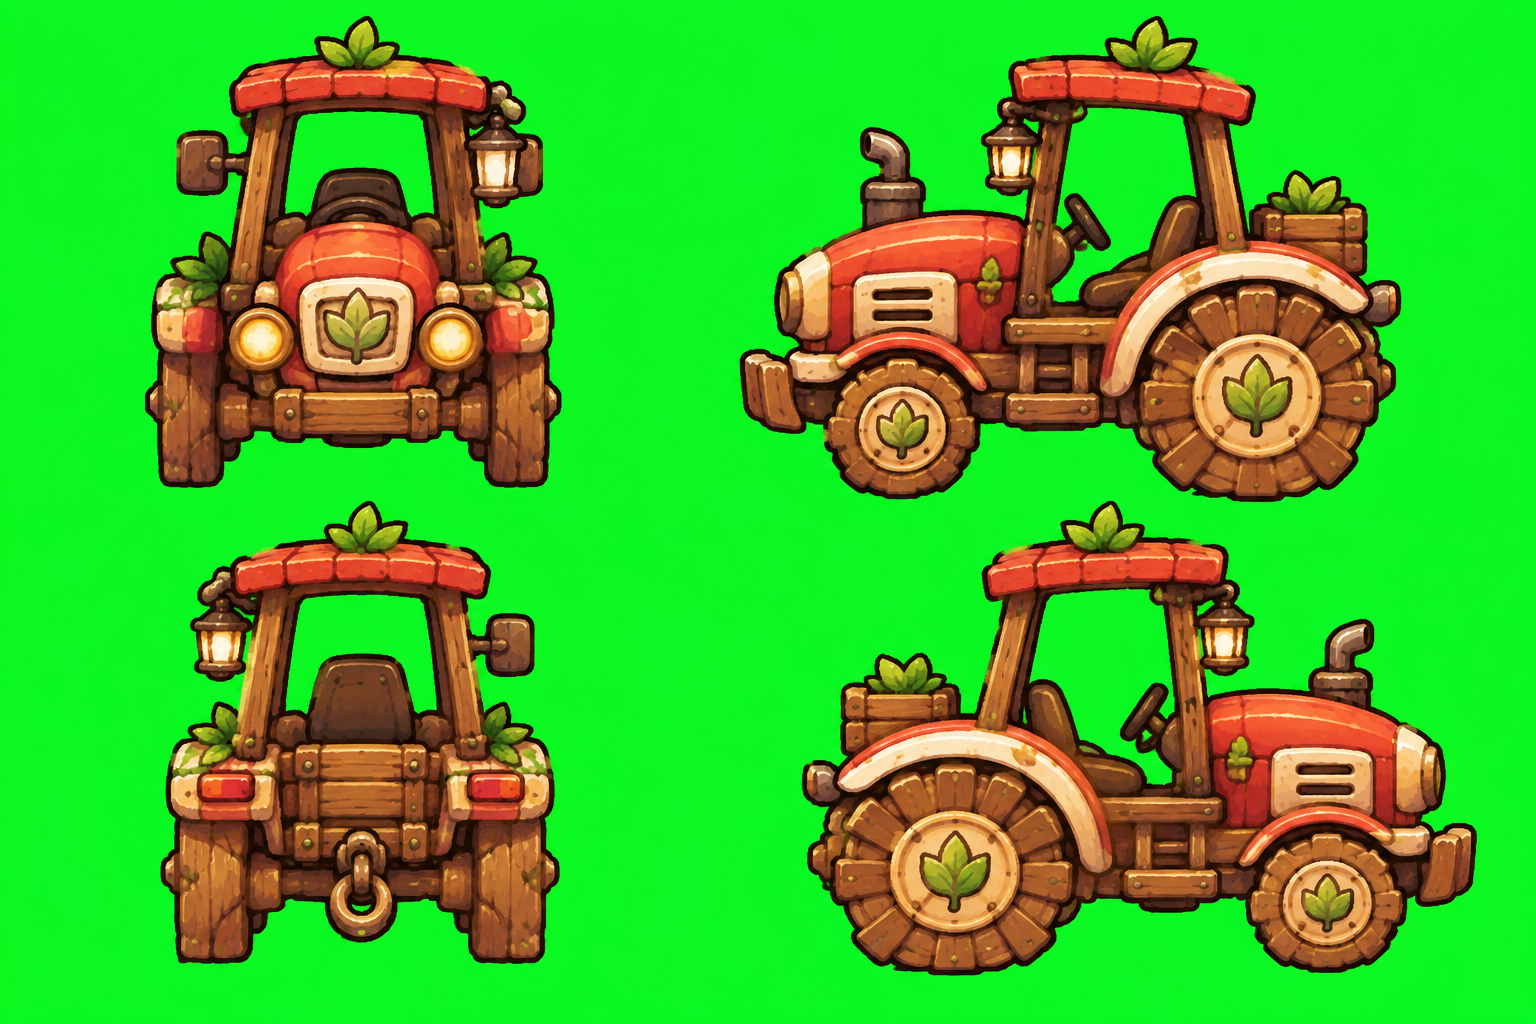
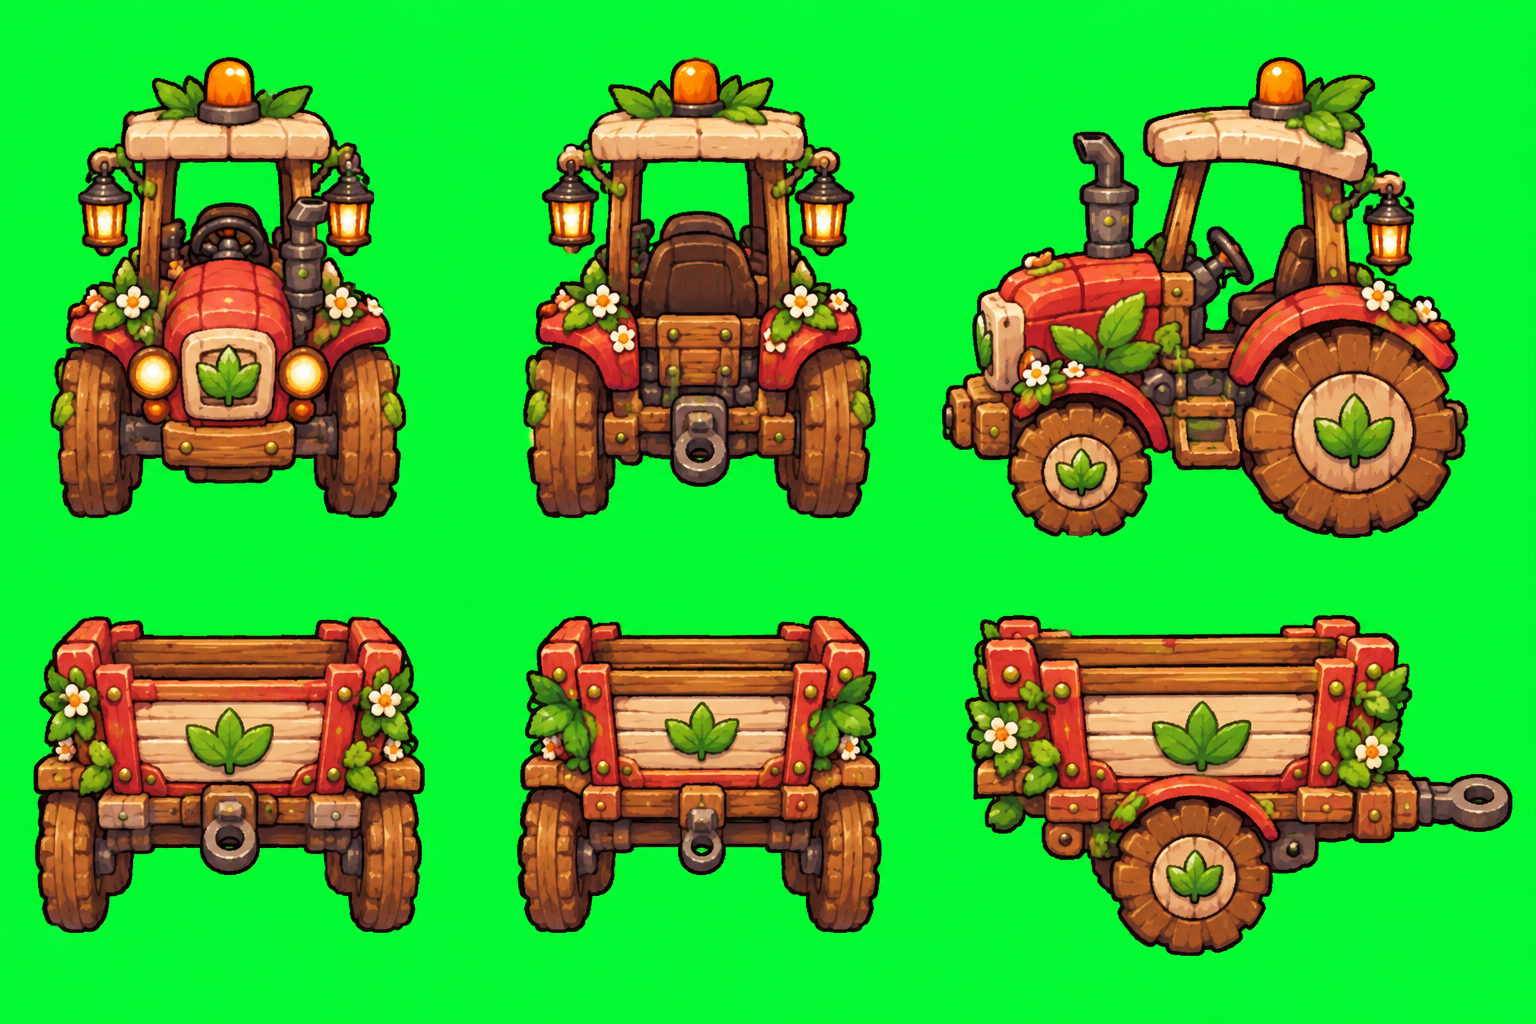
Trator e caçamba novos (teto creme, giroflex, flores) com rodas girando
- tools/import_tractor.py lê a folha nova (frente, costas e lado; o outro lado é espelhado, com o giro
  das rodas no sentido certo) para o trator e a caçamba
- Personagem desenhado por cima do banco (cabeça e ombros), embaixo do teto, nas 4 direções
- Caçamba um pouco mais perto do trator

Claude-Session: https://claude.ai/code/session_01K8smMkd41S9KsmfWVPtWCG

diff --git a/tools/import_tractor.py b/tools/import_tractor.py
@@ -1,11 +1,10 @@
 #!/usr/bin/env python3
 """
-Trator (assets/source/tractor.png, fundo verde, 4 vistas): frente (baixo), costas (cima),
-virado para a esquerda (capô à esquerda) e para a direita. Saída: assets/sprites/tractor/<direção>.png,
-todas na mesma escala, com as rodas na base da imagem.
-Também importa a caçamba (assets/source/trailer.png, mesma organização: em cima à esquerda vista com o
-engate para baixo, embaixo à esquerda para cima, à direita engate para a esquerda e para a direita)
-em assets/sprites/tractor/trailer_<direção do trator>.png.
+Trator e caçamba (assets/source/tractor.png, fundo verde). Em cima: trator de frente, de costas e de lado
+(capô para a esquerda); embaixo: caçamba vista pelo engate (trator indo para baixo), pela traseira (trator
+indo para cima) e de lado (engate para a direita = trator à direita). O outro lado é o espelho.
+Saída: assets/sprites/tractor/<direção do trator>.png e trailer_<direção do trator>.png, cada uma uma tira de
+FRAMES quadros com as rodas girando (de lado gira o aro de gomos; de frente/costas a banda "corre").
 Uso: python3 tools/import_tractor.py
 """
 import colorsys
@@ -20,14 +19,18 @@ from import_hud import key_flood  # noqa: E402
 ROOT = os.path.dirname(os.path.dirname(os.path.abspath(__file__)))
 SRC = os.path.join(ROOT, "assets", "source", "tractor.png")
 OUT = os.path.join(ROOT, "assets", "sprites", "tractor")
-VIEWS = {"down": (0, 0, 700, 500), "left": (700, 0, 1536, 512), "up": (0, 500, 700, 1024), "right": (700, 512, 1536, 1024)}
-SCALE = 0.13
+# nome -> (recorte na folha, espelhar)
+VIEWS = {"down": ((0, 30, 480, 545), False), "up": ((480, 30, 940, 545), False),
+         "left": ((930, 30, 1536, 560), False), "right": ((930, 30, 1536, 560), True)}
+TRAILER_VIEWS = {"down": ((0, 590, 470, 1010), False), "up": ((470, 590, 940, 1010), False),
+                 "right": ((940, 590, 1536, 1010), False), "left": ((940, 590, 1536, 1010), True)}
+SCALE = 0.125
 
 FRAMES = 4          # quadros das rodas girando (saída: tira horizontal com FRAMES quadros por direção)
 # centro aproximado das rodas vistas de lado (na folha original); o centro exato é achado pelo miolo creme
 # (x, y, raio aproximado do miolo, número de gomos do aro)
-TRACTOR_WHEELS = [(900, 430, 40, 10), (1257, 401, 65, 12), (955, 880, 62, 12), (1325, 900, 42, 10)]
-TRAILER_WHEELS = [(1215, 370, 52, 14), (1038, 850, 52, 14)]
+TRACTOR_WHEELS = [(1080, 472, 38, 12), (1355, 432, 60, 16)]
+TRAILER_WHEELS = [(1190, 871, 42, 12)]
 
 
 def _is_tread(p):
@@ -145,33 +148,35 @@ def import_sheet(src, views, prefix, scale=SCALE, wheels=()):
         f = im.copy()
         for wh in found:
             _spin(im, f, wh, k / FRAMES)
-        for name, box in views.items():
+        for name, (box, flip) in views.items():
             if name in ("down", "up"):
                 _roll(im, f, box, k / FRAMES)
         frames.append(f)
-    for name, box in views.items():
+    for name, (box, flip) in views.items():
         bb = im.crop(box).getbbox()
-        strip = None
-        for k, f in enumerate(frames):
+        smalls = []
+        for f in frames:
             p = f.crop(box).crop(bb)
+            if flip:
+                p = p.transpose(Image.FLIP_LEFT_RIGHT)
             small = p.resize((round(p.width * scale), round(p.height * scale)), Image.LANCZOS)
             sp = small.load()
             for y in range(small.height):
                 for x in range(small.width):
                     r, g, b, a = sp[x, y]
                     sp[x, y] = (r, g, b, 255) if a >= 110 else (0, 0, 0, 0)
-            if strip is None:
-                strip = Image.new("RGBA", (small.width * FRAMES, small.height), (0, 0, 0, 0))
-            strip.paste(small, (k * small.width, 0))
+            smalls.append(small)
+        if flip:
+            # no espelho o giro inverte: volta a ordem para os quadros girarem no mesmo sentido do original
+            smalls = [smalls[0]] + smalls[1:][::-1]
+        strip = Image.new("RGBA", (smalls[0].width * FRAMES, smalls[0].height), (0, 0, 0, 0))
+        for k, sm in enumerate(smalls):
+            strip.paste(sm, (k * sm.width, 0))
         strip.save(os.path.join(OUT, prefix + name + ".png"))
-        print(prefix + name, strip.size, "rodas:", [(round(w[0]), round(w[1]), round(w[4], 1)) for w in found] if name == "left" else "")
+        print(prefix + name, strip.size)
 
-
-# caçamba: nome = direção do TRATOR (o engate aponta para ele)
-TRAILER_VIEWS = {"down": (0, 0, 700, 500), "left": (700, 0, 1536, 500), "up": (0, 500, 700, 1024),
-                 "right": (700, 500, 1536, 1024)}
 
 if __name__ == "__main__":
     os.makedirs(OUT, exist_ok=True)
     import_sheet(SRC, VIEWS, "", SCALE, TRACTOR_WHEELS)
-    import_sheet(os.path.join(ROOT, "assets", "source", "trailer.png"), TRAILER_VIEWS, "trailer_", 0.105, TRAILER_WHEELS)
+    import_sheet(SRC, TRAILER_VIEWS, "trailer_", 0.105, TRAILER_WHEELS)

diff --git a/README.md b/README.md
@@ -123,7 +123,7 @@ Ao entrar na mina ou dormir você desce sozinho. Arte: `tools/import_tractor.py`
 **Caçamba**: vem engatada e segue atrás do trator. Parada, toque nela
 com a mão para abrir a carga (24 espaços): toque num item para passar entre a mochila e a carga (ferramentas
 ficam na mochila). Perto da caixa de vendas dá para vender a carga toda de uma vez; quando a cidade existir,
-é lá que ela vai ser vendida. Arte: `assets/source/trailer.png` (mesmo importador).
+é lá que ela vai ser vendida. Arte: na mesma folha do trator (`assets/source/tractor.png`, linha de baixo).
 
 ## Zoom da câmera
 
